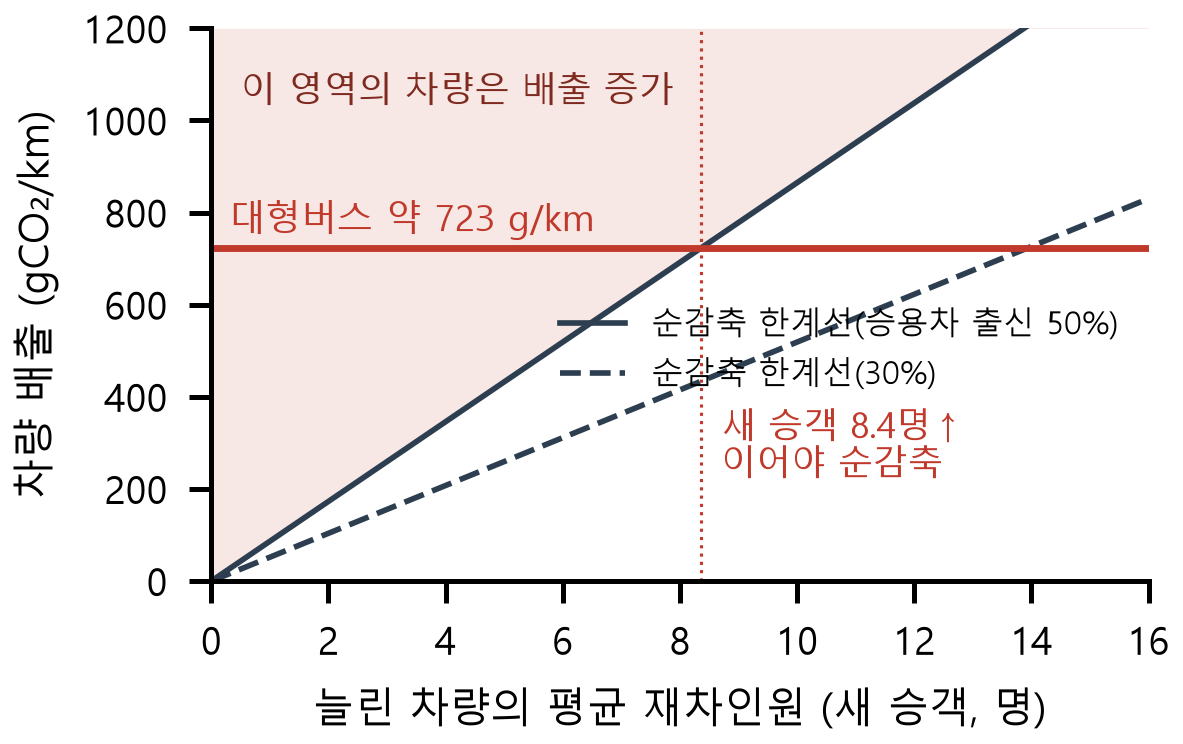
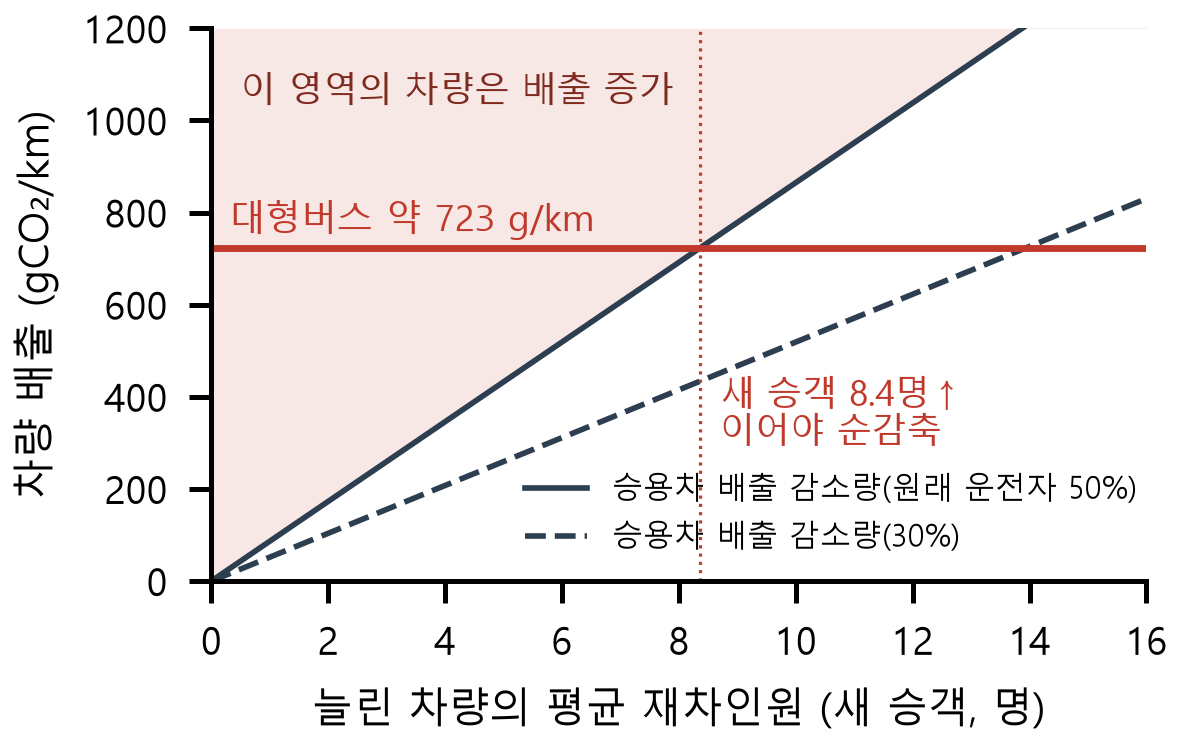
Add files via upload

diff --git a/code/03_carbon.py b/code/03_carbon.py
@@ -4,15 +4,19 @@
 승용차 통근 감소와 온실가스 변화를 '근거 기반 시나리오'로 추정한다.
 
 [1단계] 승용차 → 버스 전환 통근자
-  버스 통근자 증가 = 현재 버스(시내·시외) 통근자 * 서비스 증가율 * 서비스 탄력성
-      버스 차량·km 탄력성: 단기 0.4, 장기 0.7 (Paulley 외 2006, Transport Policy 13(4) 표 4: 0.38/0.66)
-  그중 원래 승용차 통근자 비율: 30% / 50% (해외 사례 44~66%, 도시·철도 중심이라 낮춰 잡음)
+  버스 통근자 증가 = 현재 버스(시내·시외) 통근자 * ((1 + 서비스 증가율) ** 탄력성 - 1)
+      (변화가 크므로 탄력성을 단순히 곱하지 않고 일정 탄력성 공식으로 적용. 2배 증차·0.38 → +30%)
+      버스 차량·km 탄력성: 단기 0.38, 장기 0.66 (Paulley 외 2006, Transport Policy 13(4) 표 4: 0.38/0.66)
+  그중 원래 승용차 통근자 비율: 기준 50% / 보수 30% (LA Metro 신규 승객의 44~66%, 도시·철도 사례라 낮춰 잡음)
 
 [2단계] 승용차 배출 감소
   편도거리 = 승용차 평균 통근시간 / 60 * 30km/h, 왕복 * 연 250일
   승용차 173 gCO2/인·km (한국철도기술연구원 2010, 권영민 외 2020 재인용)
 
 [3단계] 버스를 더 굴리면서 생기는 배출 (상쇄분)
+  ※ 아래 상쇄분은 '새 승객을 평균 재차인원 N명으로 나를 때 필요한 운행'을 역산한 예시다.
+    현재 버스 차량·km 자료가 없어 '운행 2배'의 실제 추가 운행량과는 맞춰 볼 수 없으므로,
+    보고서에는 승용차 감소분과 손익분기 재차인원만 쓴다.
   대형버스 약 723 gCO2/km (국립환경과학원 NIER-06 시험, 서울시 자료)
   -> 버스 1대가 평균 723/173 ≈ 4.2명 이상을 태워야 승용차보다 배출이 적다(손익분기 재차인원).
   새로 늘린 버스의 평균 재차인원을 2/4/8명으로 바꿔 가며 순감축량을 본다.
@@ -33,7 +37,7 @@ WORKDAYS = 250
 BREAK_EVEN_OCC = EF_BUS_VEH / EF_CAR
 
 SERVICE_UP = {"배차 1.5배": 0.5, "배차 2배": 1.0}
-ELASTICITY = {"단기 0.4": 0.4, "장기 0.7": 0.7}
+ELASTICITY = {"단기 0.38": 0.38, "장기 0.66": 0.66}
 FROM_CAR = {"30%": 0.3, "50%": 0.5}
 OCCUPANCY = {"2명": 2.0, "4명": 4.0, "8명": 8.0}     # 새로 늘린 버스의 평균 재차인원
 
@@ -45,7 +49,7 @@ def scenario(d: pd.DataFrame, group: str) -> pd.DataFrame:
     rows = []
     for (su, up), (el, e), (fc, f), (oc, occ) in product(
             SERVICE_UP.items(), ELASTICITY.items(), FROM_CAR.items(), OCCUPANCY.items()):
-        new_riders = n_transit * up * e
+        new_riders = n_transit * ((1 + up) ** e - 1)
         car_to_bus = new_riders * f
         car_pkm = car_to_bus * 2 * WORKDAYS * km_oneway
         gross = (car_pkm * EF_CAR / 1e6).sum()                      # 승용차 감소분 tCO2

diff --git a/code/09_headway_validation.py b/code/09_headway_validation.py
@@ -9,6 +9,7 @@
   - 2020~2022년은 값이 비어 있어 코로나 직전인 2018·2019년을 쓴다
   - 두 해의 수준 차이가 커서(집계 방식 변화로 보임) 연도별로 따로 비교한다
 평일(월~금) 평균 배차간격(분)을 쓰고, 0 또는 빈 값은 결측 처리한다.
+도시·농촌 차이가 섞일 수 있으므로 통근자 밀도(로그)를 통제한 편순위상관도 함께 낸다.
 """
 import json
 from pathlib import Path
@@ -39,11 +40,21 @@ def load_headway() -> pd.DataFrame:
     return pd.DataFrame(rows).pivot(index="name", columns="year", values="headway_weekday")
 
 
+def partial_spearman(x, y, z):
+    """z(통제변수)의 순위를 뺀 뒤 x·y 순위 잔차끼리의 상관"""
+    rx, ry, rz = (pd.Series(v).rank().to_numpy() for v in (x, y, z))
+    A = np.column_stack([np.ones_like(rz), rz])
+    ex = rx - A @ np.linalg.lstsq(A, rx, rcond=None)[0]
+    ey = ry - A @ np.linalg.lstsq(A, ry, rcond=None)[0]
+    return float(np.corrcoef(ex, ey)[0, 1])
+
+
 def main():
     h = load_headway()
     d = pd.read_csv(PROC / "sgg_2020_analyzed.csv")
     d = d[d["key"].str.startswith("경기|")].copy()
     d["name"] = d["key"].str.split("|").str[1]
+    d["log_density"] = np.log(d["commuters"] / d["area_km2"])
     m = d.set_index("name").join(h)
 
     rows = []
@@ -57,6 +68,7 @@ def main():
             "순위상관_승용차비율": x[y].corr(x["car_share"], method="spearman"),
             "순위상관_대중교통비율": x[y].corr(x["transit_share"], method="spearman"),
             "순위상관_의존지수": x[y].corr(x["fcd_index"], method="spearman"),
+            "편순위상관_승용차비율_밀도통제": partial_spearman(x[y], x["car_share"], x["log_density"]),
         })
     res = pd.DataFrame(rows)
     print(res.round(2).to_string(index=False))

diff --git a/code/10_print_figures.py b/code/10_print_figures.py
@@ -94,18 +94,18 @@ def fig3():
     occ = np.linspace(0, 16, 200)
     fig, ax = plt.subplots(figsize=(2.55, 1.65))
     ax.fill_between(occ, occ * 0.5 * 173, 1200, color="#f2d7d5", alpha=0.6, lw=0)
-    ax.plot(occ, occ * 0.5 * 173, color="#2c3e50", lw=0.9, label="순감축 한계선(승용차 출신 50%)")
-    ax.plot(occ, occ * 0.3 * 173, color="#2c3e50", lw=0.9, ls="--", label="순감축 한계선(30%)")
+    ax.plot(occ, occ * 0.5 * 173, color="#2c3e50", lw=0.9, label="승용차 배출 감소량(원래 운전자 50%)")
+    ax.plot(occ, occ * 0.3 * 173, color="#2c3e50", lw=0.9, ls="--", label="승용차 배출 감소량(30%)")
     ax.axhline(723, color=RED, lw=1.1)
     ax.text(0.3, 760, "대형버스 약 723 g/km", color=RED, fontsize=5.8)
     ax.axvline(723 / (0.5 * 173), color=RED, lw=0.5, ls=":")
-    ax.text(8.7, 230, "새 승객 8.4명↑\n이어야 순감축", color=RED, fontsize=5.6)
+    ax.text(8.7, 300, "새 승객 8.4명↑\n이어야 순감축", color=RED, fontsize=5.6)
     ax.text(0.5, 1040, "이 영역의 차량은 배출 증가", color="#7f2a1f", fontsize=5.6)
     ax.set_xlim(0, 16)
     ax.set_ylim(0, 1200)
     ax.set_xlabel("늘린 차량의 평균 재차인원 (새 승객, 명)")
     ax.set_ylabel("차량 배출 (gCO₂/km)")
-    ax.legend(loc="center right", frameon=False, fontsize=5.2, bbox_to_anchor=(1.0, 0.42))
+    ax.legend(loc="lower right", frameon=False, fontsize=5.0, bbox_to_anchor=(1.02, 0.0))
     ax.spines[["top", "right"]].set_visible(False)
     fig.tight_layout(pad=0.3)
     fig.savefig(FIG / "print_fig3_break_even.png", dpi=DPI, bbox_inches="tight", pad_inches=0.03)

diff --git a/code/08_infographic.py b/code/08_infographic.py
@@ -65,8 +65,8 @@ def main():
          f"대중교통 {core['대중교통비율']*100:.1f}% vs {rest['대중교통비율']*100:.1f}%", RED)
     card(fig, x0 + w + 0.015, 0.53, w, h, f"+{tr['승용차_변화_%p(중앙값)']:.1f}%p",
          "2015→2020 승용차 비율\n지역별 상승폭 중앙값\n17곳 모두 상승", RED)
-    card(fig, x0, 0.16, w, h, f"소득 {inc:+.1f}%p",
-         f"모형 예측 기여도(SHAP)\n소득은 예측을 낮추고\n지역 여건이 +{struct:.1f}%p", BLUE)
+    card(fig, x0, 0.16, w, h, f"{inc:+.1f}%p",
+         f"소득 변수의 예측 기여(SHAP)\n지역 여건 요인은\n합계 +{struct:.1f}%p", BLUE)
     card(fig, x0 + w + 0.015, 0.16, w, h, "8.4명",
          "늘린 버스 평균 재차인원\n손익분기(새 승객 중\n원래 운전자 50% 가정)", BLUE)
 
@@ -76,7 +76,7 @@ def main():
                                 fc=DARK, ec="none", transform=ax.transAxes))
     ax.text(0.015, 0.5, "정책\n제안", fontsize=7.5, fontweight="bold", color="white", va="center",
             transform=ax.transAxes)
-    props = ["① 투자·보조금에\n의존 지수 반영", "② 여건별 수단 선택\n(셔틀·DRT·역 연계)",
+    props = ["① 투자·보조금에\n의존 지수 반영", "② 여건별 수단 선택\n(셔틀·DRT·열차 연계)",
              "③ 최소 서비스 보장 후\n탄소 점검으로 수단 선택", "④ 2025 센서스로\n지수 갱신·점검"]
     for i, t in enumerate(props):
         ax.text(0.10 + i * 0.225, 0.5, t, fontsize=6.6, color="white", va="center", transform=ax.transAxes,
